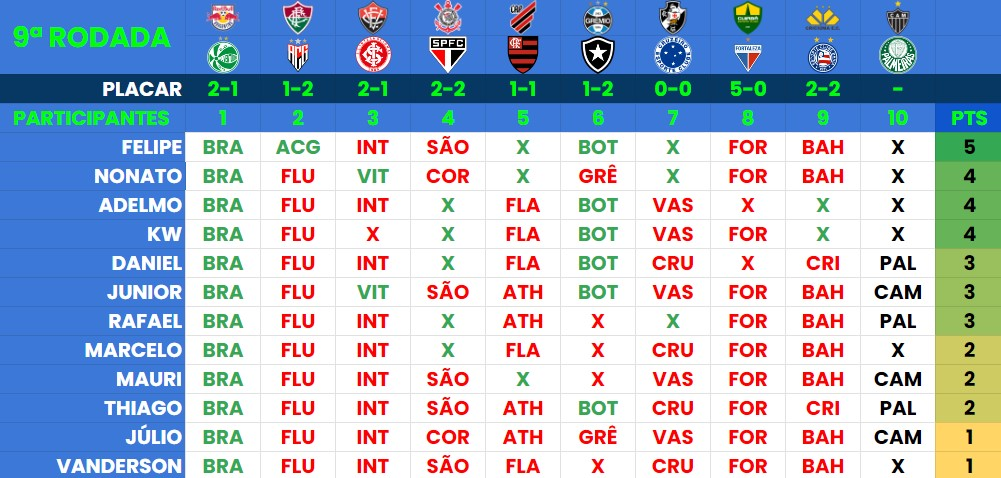
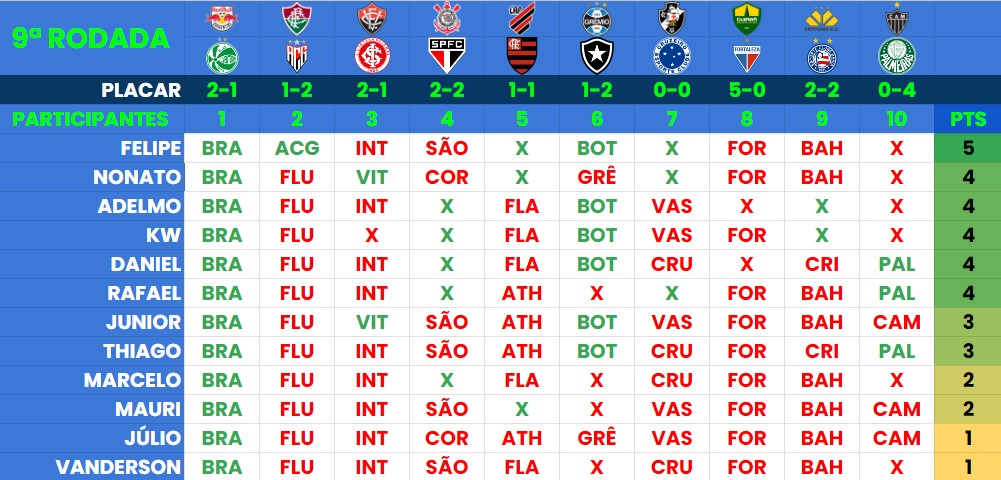
U

diff --git a/index.html b/index.html
@@ -51,10 +51,10 @@
           <img src="./assets/Round9.jpg" alt="Logo do Campeonato Brasileiro 2022" />
         </div>
         <div class="text">
-          <h2 class="title"><a href="./predictor.html">BOLA ROLANDO PELA 9ª RODADA</a>
+          <h2 class="title"><a href="./predictor.html">Felipe é o maior pontuador da Rodada 9</a>
           </h2>
           <p>
-            Acompanhem os resultados
+            Santista faz cinco pontos na rodada
           </p>
           <a class="button" href="./predictor.html">Resumo da 9ª Rodada</a>
         </div>
@@ -177,7 +177,7 @@
           <div class="content">
             <h2 class="rank"><small>#</small>1</h2>
             <h4>Júnior</h4>
-            <p>41 Pontos</p>
+            <p>44 Pontos</p>
           </div>
         </div>
         <div class="list">
@@ -187,7 +187,7 @@
           <div class="content">
             <h2 class="rank"><small>#</small>2</h2>
             <h4>Adelmo</h4>
-            <p>39 Pontos</p>
+            <p>43 Pontos</p>
           </div>
         </div>
         <div class="list">
@@ -197,7 +197,7 @@
           <div class="content">
             <h2 class="rank"><small>#</small>3</h2>
             <h4>KW</h4>
-            <p>39 Pontos</p>
+            <p>43 Pontos</p>
           </div>
         </div>
         <div class="list">
@@ -207,7 +207,7 @@
           <div class="content">
             <h2 class="rank"><small>#</small>4</h2>
             <h4>Marcelo</h4>
-            <p>39 Pontos</p>
+            <p>41 Pontos</p>
           </div>
         </div>
         <div class="list">
@@ -217,7 +217,7 @@
           <div class="content">
             <h2 class="rank"><small>#</small>5</h2>
             <h4>Rafael</h4>
-            <p>36 Pontos</p>
+            <p>40 Pontos</p>
           </div>
         </div>
         <div class="list">
@@ -227,17 +227,7 @@
           <div class="content">
             <h2 class="rank"><small>#</small>6</h2>
             <h4>Thiago</h4>
-            <p>36 Pontos</p>
-          </div>
-        </div>
-        <div class="list">
-          <div class="imgBx">
-            <img src="./assets/fotos/fortaleza.png">
-          </div>
-          <div class="content">
-            <h2 class="rank"><small>#</small>7</h2>
-            <h4>Júlio César</h4>
-            <p>35 Pontos</p>
+            <p>39 Pontos</p>
           </div>
         </div>
         <div class="list">
@@ -245,9 +235,9 @@
             <img src="./assets/fotos/ceará.png">
           </div>
           <div class="content">
-            <h2 class="rank"><small>#</small>8</h2>
+            <h2 class="rank"><small>#</small>7</h2>
             <h4>Nonato</h4>
-            <p>34 Pontos</p>
+            <p>38 Pontos</p>
           </div>
         </div>
         <div class="list">
@@ -255,9 +245,9 @@
             <img src="./assets/fotos/fortaleza.png">
           </div>
           <div class="content">
-            <h2 class="rank"><small>#</small>9</h2>
-            <h4>Mauri</h4>
-            <p>32 Pontos</p>
+            <h2 class="rank"><small>#</small>8</h2>
+            <h4>Júlio César</h4>
+            <p>36 Pontos</p>
           </div>
         </div>
         <div class="list">
@@ -265,9 +255,9 @@
             <img src="./assets/fotos/corinthians.png">
           </div>
           <div class="content">
-            <h2 class="rank"><small>#</small>10</h2>
+            <h2 class="rank"><small>#</small>9</h2>
             <h4>Daniel</h4>
-            <p>32 Pontos</p>
+            <p>36 Pontos</p>
           </div>
         </div>
         <div class="list">
@@ -275,9 +265,19 @@
             <img src="./assets/fotos/santos.png">
           </div>
           <div class="content">
-            <h2 class="rank"><small>#</small>11</h2>
+            <h2 class="rank"><small>#</small>10</h2>
             <h4>Felipe</h4>
-            <p>30 Pontos</p>
+            <p>35 Pontos</p>
+          </div>
+        </div>
+        <div class="list">
+          <div class="imgBx">
+            <img src="./assets/fotos/fortaleza.png">
+          </div>
+          <div class="content">
+            <h2 class="rank"><small>#</small>11</h2>
+            <h4>Mauri</h4>
+            <p>34 Pontos</p>
           </div>
         </div>
         <div class="list">
@@ -287,7 +287,7 @@
           <div class="content">
             <h2 class="rank"><small>#</small>12</h2>
             <h4>Vanderson</h4>
-            <p>30 Pontos</p>
+            <p>31 Pontos</p>
           </div>
         </div>
       </div>
